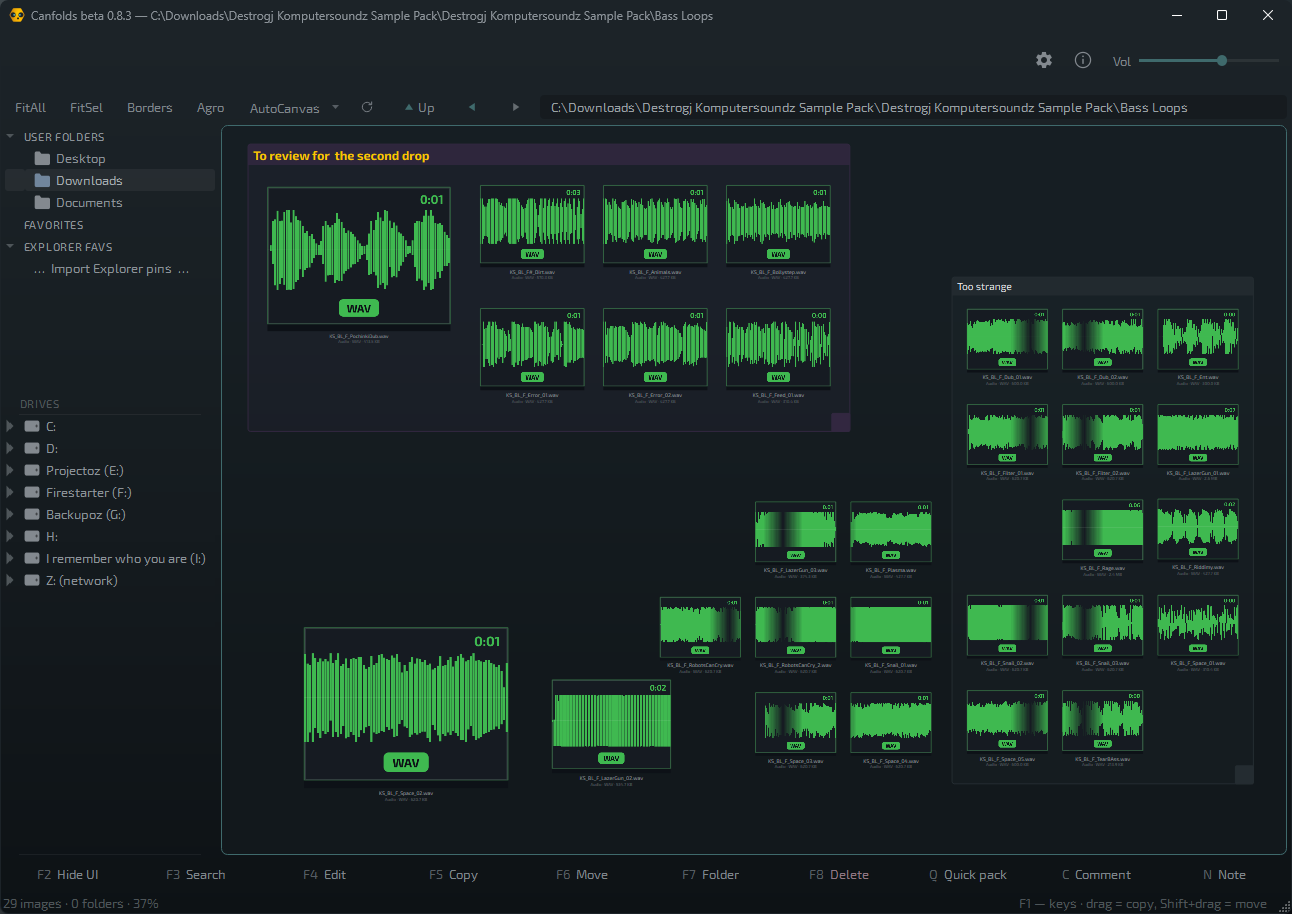
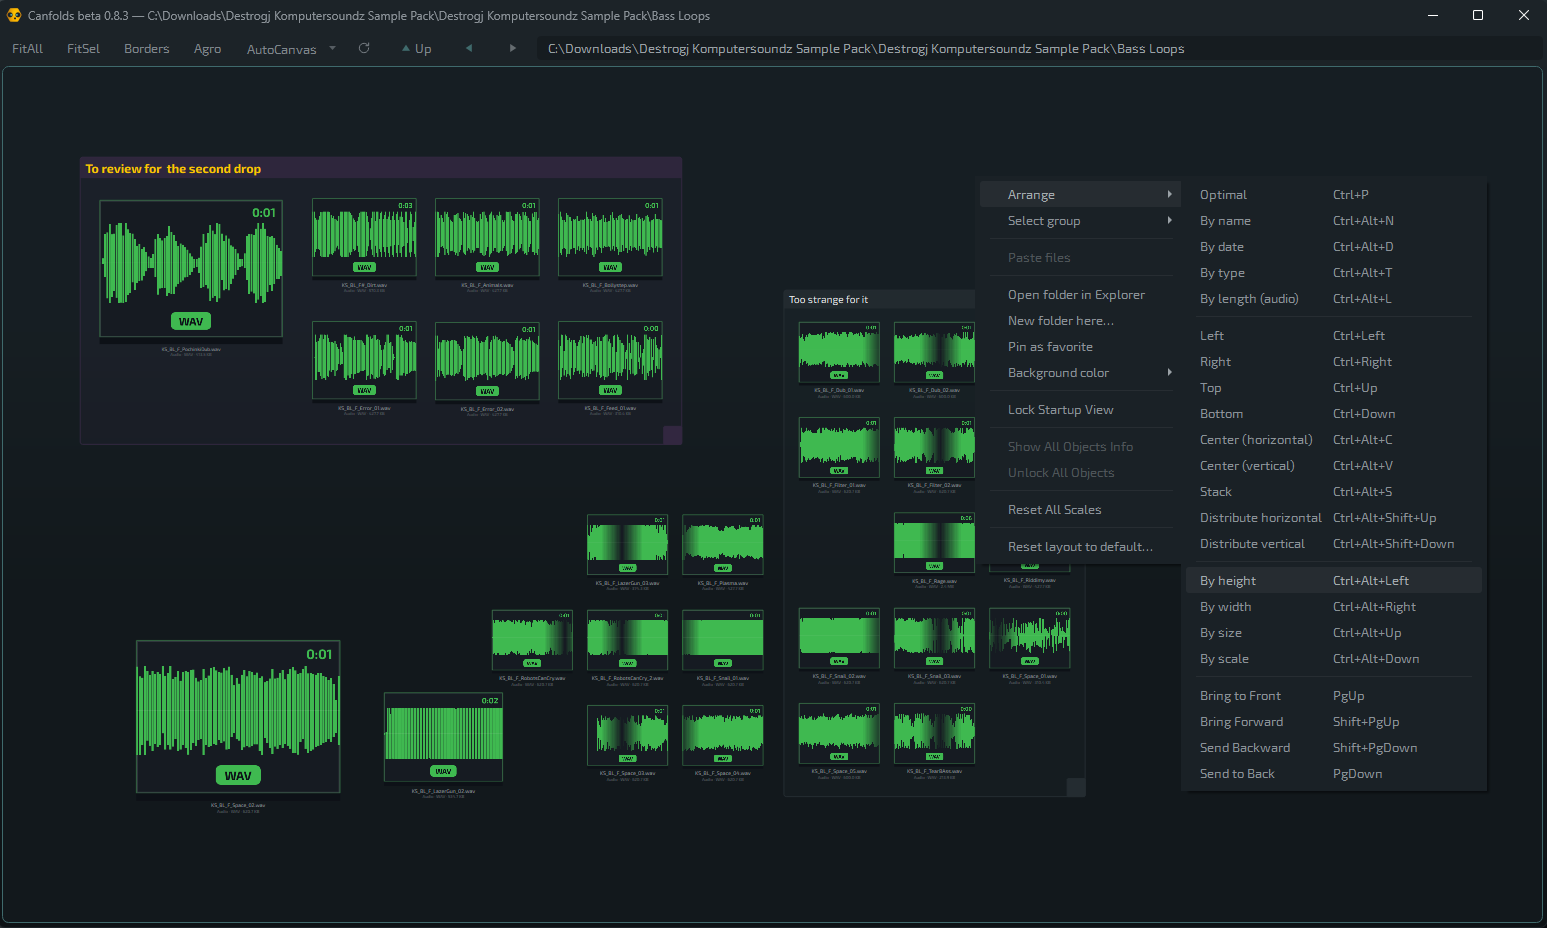
Updating info

diff --git a/README.md b/README.md
@@ -4,17 +4,12 @@
 
 Windows · Freeware · Beta
 
-Canfolds is a dual-pane file browser where every folder opens as a freely
-arranged canvas: lay out images, video, sound and 3D models — with scale,
-rotation, groups and comments — while the files stay ordinary files on
-disk. Nothing gets imported or locked inside the app: delete the hidden
-layout file and it's a plain folder again.
-
-> **Beta, free software.** Canfolds is designed to never modify, move, or
-> delete your files without an explicit action on your part, and canvas
-> layouts back themselves up automatically. Even so, back up anything
-> irreplaceable before trying it on real folders — see
-> [LICENSE.txt](LICENSE.txt) for the full notice.
+**Every folder can already be a mood board — Canfolds just makes it
+visible.** It's a dual-pane file browser where each folder opens as a
+freely arranged canvas: images, video, sound and 3D models laid out with
+scale, rotation, groups and comments, while the files stay ordinary files
+on disk. Delete the hidden layout and it's a plain folder again — **like
+nothing ever happened.**
 
 ## Screenshots
 
@@ -28,6 +23,10 @@ layout file and it's a plain folder again.
 <tr>
 <td width="50%"><img src="screenshots/wav-sfx-example.png" alt="Audio samples sorted into comment frames"></td>
 <td width="50%"><img src="screenshots/dual-canvas.png" alt="Two independent panes side by side"></td>
+</tr>
+<tr>
+<td width="50%"><img src="screenshots/agro-mode.png" alt="Agro mode showing every file in a folder, including formats with no preview"></td>
+<td width="50%"><img src="screenshots/web-gallery.png" alt="Web Gallery settings and the resulting published page in a browser"></td>
 </tr>
 </table>
 
